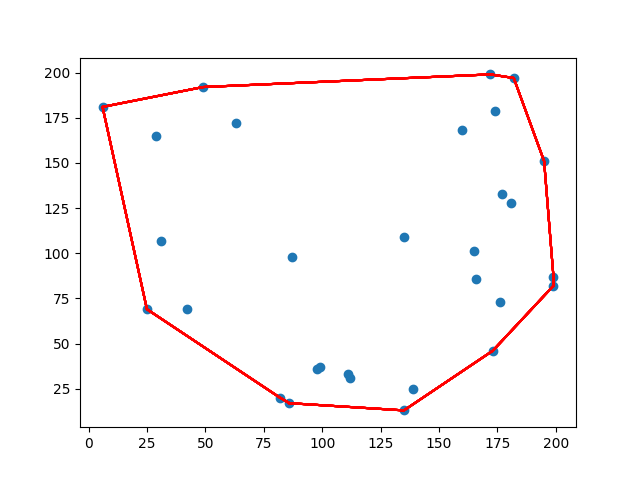
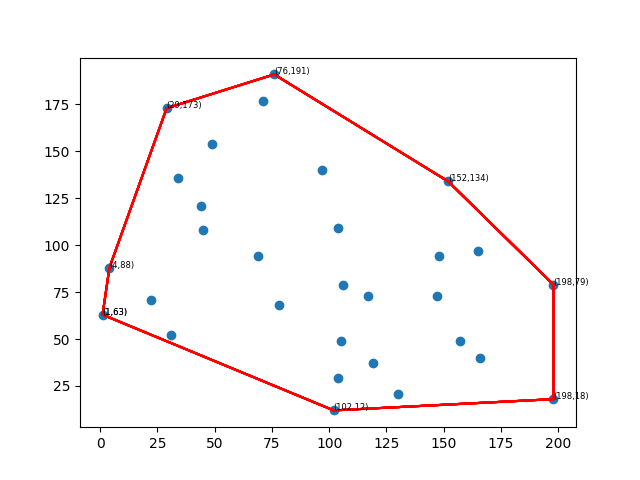
Changed main.cpp to accept maxVal and numPts as command line args.

diff --git a/main.cpp b/main.cpp
@@ -43,9 +43,18 @@ void writeDOT(std::vector<std::string> scs, std::vector<std::string> psbl, std::
     out << "}";
 }
 
-int main()
+int main(int argc, char* argv[])
 {
-    Random randData(200, 30);
+    if (argc != 3)
+    {
+        std::cout << "Incorrect number of CLI arguments!!" << std::endl;
+        exit(EXIT_FAILURE);
+    }
+
+    int maxVal = std::stoi(argv[1]);
+    int numPts = std::stoi(argv[2]);
+
+    Random randData(maxVal, numPts);
 
     Scan scn(randData.set);
 
